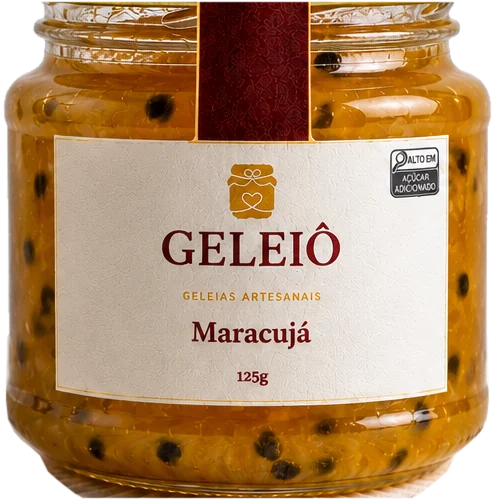
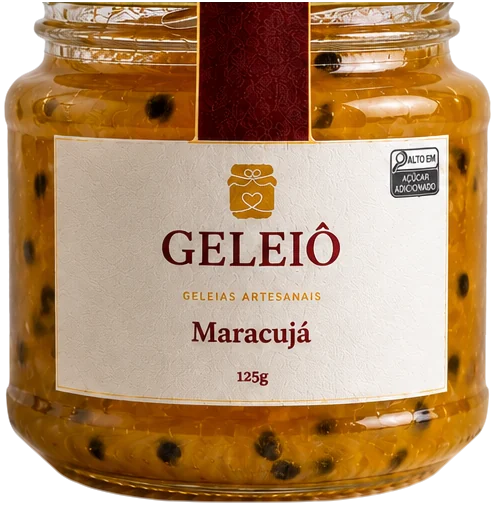
Login: base do pote recortada de novo e correções nas reações do pote
Base do pote (scripts/recortar-pote-login.mjs, public/login/pote.webp):
- O recorte terminava num corte reto em y=778 e chanfrava os cantos,
  mostrando o suporte listrado da foto. Agora o contorno inteiro é um
  polígono suave: laterais com borda subpixel até y 615, base medida no
  lado iluminado e espelhada (envoltória convexa + Catmull-Rom), pé de
  vidro até y 782,5, alfa pela distância à borda (1,5 px nas laterais,
  2,6 px no fundo) e cor da borda puxada de dentro (sem franja cinza).
- Caixa do pote 494x505; BASE_POTE.y 783 (a sombra acompanha).

Reações do pote (AnimatedJamJar), achados da revisão de bugs:
- Chacoalhar, negar e comemorar não entram mais no conjunto pausável
  (no framer-motion 13, pause() numa animação interrompida congelava os
  anéis da ondulação para sempre); a anterior recebe complete().
- Pose de repouso aplicada ao (re)montar e ao trocar "reduzir
  movimento": o pote não reabre mais inclinado/achatado nem com a tampa
  deslocada; animações WAAPI zumbis são canceladas.
- Toque no pote por onClick: rolar a página no celular começando no
  pote (ou o botão direito do mouse) não o chacoalha mais.
- Paralaxe volta a zero quando a rota é escondida.
- O botão "Pausar animação" ficava por baixo da frase da assinatura e
  não recebia o clique do mouse no desktop (WCAG 2.2.2).

diff --git a/src/components/AnimatedJamJar.tsx b/src/components/AnimatedJamJar.tsx
@@ -2,6 +2,7 @@
 
 import Image from "next/image";
 import {
+  frame,
   useAnimate,
   useInView,
   useMotionValue,
@@ -63,10 +64,13 @@ const paralaxe = (profundidade: number) =>
 
 // Boca do pote (elipse da superfície da geleia) e pontos da coreografia, medidos na foto.
 const BOCA = { cx: 383, cy: 258, rx: 198, ry: 21 };
-/** Centro do fundo do pote: origem do balanço do corpo (achata e estica a partir da mesa). */
-const BASE_POTE = { x: 383, y: 786 };
+/**
+ * Centro do fundo do pote, onde o pé de vidro encosta na mesa (y 782,5 no recorte, com a borda
+ * macia até 783): origem do balanço do corpo (achata e estica a partir da mesa) e centro da sombra.
+ */
+const BASE_POTE = { x: 383, y: 783 };
 /** Área do pote que responde ao clique/toque: do topo da tampa fechada até o fundo. */
-const AREA_TOQUE = { x: 136, y: 188, largura: 494, altura: 598 };
+const AREA_TOQUE = { x: 136, y: 188, largura: 494, altura: BASE_POTE.y - 188 };
 /** Camadas do corpo do pote: balançam a partir do fundo e ficam no plano do meio do paralaxe. */
 const ESTILO_CORPO = { transformOrigin: origem(BASE_POTE.x, BASE_POTE.y), translate: paralaxe(2) };
 const CENTRO_TAMPA = { x: 383, y: 240 };
@@ -127,6 +131,19 @@ const QUADRO_PARADO: AnimationSequence = [
   ["[data-colher]", { ...COLHER_ERGUIDA, opacity: 1 }, { duration: 0, at: 0 }],
   ["[data-porcao]", { opacity: 1 }, { duration: 0, at: 0 }],
   ["[data-gota]", { opacity: 1, scale: 1, y: uy(0) }, { duration: 0, at: 0 }],
+];
+
+/**
+ * Pose de repouso, aplicada na hora no começo da cena: tampa fechada, colher fora, sem gota nem
+ * porção, corpo e sombra no lugar. Uma animação parada no meio (stop) congela o valor onde estava,
+ * e ABRIR e QUADRO_PARADO não repõem tudo (o 1º trecho do ABRIR nem tem `x` da tampa).
+ */
+const POSE_REPOUSO: AnimationSequence = [
+  ["[data-tampa]", { x: ux(0), y: uy(0), rotate: 0 }, { duration: 0 }],
+  ["[data-colher]", { ...COLHER_FORA, opacity: 0 }, { duration: 0, at: 0 }],
+  ["[data-porcao], [data-gota], [data-onda], [data-onda-toque]", { opacity: 0 }, { duration: 0, at: 0 }],
+  ["[data-corpo], [data-acompanha]", { y: uy(0), rotate: 0, scaleX: 1, scaleY: 1 }, { duration: 0, at: 0 }],
+  ["[data-sombra]", { scaleX: 1, opacity: 1 }, { duration: 0, at: 0 }],
 ];
 
 /*
@@ -202,8 +219,9 @@ export function AnimatedJamJar() {
   const visivelRef = useRef(false);
   const fimUltima = useRef(0);
   const imagens = useRef<(HTMLImageElement | null)[]>([]);
+  const reacao = useRef<AnimationPlaybackControls | null>(null);
 
-  /** Roda uma sequência registrando os controles (para pausar/cancelar). */
+  /** Roda uma sequência da coreografia registrando os controles (para pausar/cancelar). */
   const rodar = useCallback(
     async (sequencia: AnimationSequence, opcoes?: { repeat?: number; repeatDelay?: number }, laco = false) => {
       const controles = animar(sequencia, opcoes);
@@ -215,6 +233,25 @@ export function AnimatedJamJar() {
       } finally {
         conjunto.delete(controles);
       }
+    },
+    [animar],
+  );
+
+  /**
+   * Reação a um toque ou ao formulário (chacoalhar, negar, comemorar). Dura menos de 1 s e quem
+   * dispara é a pessoa, então fica FORA dos conjuntos pausáveis: no framer-motion 13 uma animação
+   * interrompida (stop, ou outra no mesmo valor) nunca resolve a promise, e um pause() depois disso
+   * reaplica o 1º quadro da Web Animation cancelada (os anéis da ondulação ficavam congelados).
+   * Uma reação nova termina a anterior na hora (complete leva ao fim, que é a pose de repouso).
+   */
+  const reagir = useCallback(
+    (sequencia: AnimationSequence) => {
+      reacao.current?.complete();
+      const controles = animar(sequencia);
+      reacao.current = controles;
+      void controles.then(() => {
+        if (reacao.current === controles) reacao.current = null;
+      });
     },
     [animar],
   );
@@ -273,12 +310,18 @@ export function AnimatedJamJar() {
     await abrir();
   }, [abrir, pararLacos, rodar]);
 
-  // Começo: espera as fotos decodificarem (sem animar camadas ainda invisíveis) e abre o pote.
-  // Com "reduzir movimento", vai direto para o quadro parado.
+  // Começo (e volta à rota, que reexecuta os efeitos): repõe a pose de repouso, espera as fotos
+  // decodificarem (sem animar camadas ainda invisíveis) e abre o pote. Com "reduzir movimento",
+  // vai direto para o quadro parado.
   useEffect(() => {
     if (reduzir === null) return; // ainda não sabemos (primeira renderização)
     const minha = ++geracao.current;
     let cancelado = false;
+
+    // Web Animations "zumbis" (paradas no meio, que um pause() reacenderia) saem de cena.
+    escopo.current?.getAnimations({ subtree: true }).forEach((a) => a.cancel());
+    reacao.current = null;
+    animar(POSE_REPOUSO);
 
     if (reduzir) {
       pararLacos();
@@ -286,7 +329,10 @@ export function AnimatedJamJar() {
       estado.current = "aberto";
     } else {
       const fotos = imagens.current.filter((img): img is HTMLImageElement => Boolean(img));
-      void Promise.all(fotos.map((img) => img.decode().catch(() => undefined))).then(() => {
+      // A pose com duração 0 só é escrita no próximo quadro do framer-motion: o ABRIR espera esse
+      // quadro, senão leria o x da tampa ainda fora do lugar.
+      const poseAplicada = new Promise<void>((pronto) => frame.postRender(() => pronto()));
+      void Promise.all([poseAplicada, ...fotos.map((img) => img.decode().catch(() => undefined))]).then(() => {
         if (!cancelado && minha === geracao.current && estado.current === "fechado") void abrir();
       });
     }
@@ -295,7 +341,7 @@ export function AnimatedJamJar() {
       cancelado = true;
       pararTudo();
     };
-  }, [reduzir, abrir, animar, pararLacos, pararTudo]);
+  }, [reduzir, abrir, animar, pararLacos, pararTudo, escopo]);
 
   // Formulário no mesmo <main>: o foco num campo repete a cena (no máximo a cada 8 s) e o
   // resultado do envio faz o pote reagir (balança "não" no erro, pula no acerto).
@@ -314,7 +360,7 @@ export function AnimatedJamJar() {
     const aoResultado = (e: Event) => {
       if (!podeReagir()) return;
       const resultado = (e as CustomEvent<ResultadoLogin>).detail;
-      void rodar((resultado === "erro" ? negar : comemorar)(alvoDoBalanco(estado.current)));
+      reagir((resultado === "erro" ? negar : comemorar)(alvoDoBalanco(estado.current)));
     };
     pagina.addEventListener("focusin", aoFocar);
     pagina.addEventListener(EVENTO_RESULTADO_LOGIN, aoResultado);
@@ -322,13 +368,15 @@ export function AnimatedJamJar() {
       pagina.removeEventListener("focusin", aoFocar);
       pagina.removeEventListener(EVENTO_RESULTADO_LOGIN, aoResultado);
     };
-  }, [reduzir, repetir, rodar, escopo]);
+  }, [reduzir, repetir, reagir, escopo]);
 
   // Paralaxe pelo mouse sobre o card inteiro (no toque não há "passar por cima": fica parado).
   useEffect(() => {
     if (reduzir !== false) return;
     const cartao = raiz.current?.parentElement;
-    if (!cartao) return;
+    // A cena é guardada aqui: quando a rota é escondida, o React solta o ref antes da limpeza.
+    const cena = escopo.current;
+    if (!cartao || !cena) return;
     const limitar = (v: number) => Math.max(-1, Math.min(1, v));
     const aoMover = (e: PointerEvent) => {
       if (e.pointerType !== "mouse" || pausadoPelaPessoa.current) return;
@@ -345,17 +393,27 @@ export function AnimatedJamJar() {
     return () => {
       cartao.removeEventListener("pointermove", aoMover);
       cartao.removeEventListener("pointerleave", aoSair);
+      // Volta ao centro na hora (sem a mola, que escreveria num ref já solto).
       aoSair();
+      molaX.jump(0);
+      molaY.jump(0);
+      cena.style.setProperty("--px", "0");
+      cena.style.setProperty("--py", "0");
     };
-  }, [reduzir, alvoX, alvoY]);
+  }, [reduzir, alvoX, alvoY, molaX, molaY, escopo]);
 
-  /** Clique/toque no pote: chacoalha como gelatina. */
+  /**
+   * Clique/toque no pote: chacoalha como gelatina. É `click`, não `pointerdown`: no celular o
+   * pointerdown dispara antes de o navegador decidir que o gesto é rolagem (e no mouse viria até
+   * do botão direito e do meio).
+   */
   function cutucar() {
     if (reduzir !== false || pausadoPelaPessoa.current) return;
-    void rodar(chacoalhar(alvoDoBalanco(estado.current)));
+    reagir(chacoalhar(alvoDoBalanco(estado.current)));
   }
 
-  // Fora da tela (rota escondida com display:none, aba de outra página): pausa tudo.
+  // Fora da tela (rota escondida com display:none, aba de outra página): pausa a coreografia e os
+  // laços. As reações (menos de 1 s) não entram aqui: terminam sozinhas, na pose de repouso.
   useEffect(() => {
     visivelRef.current = visivel;
     const todos = [...ativos.current, ...lacos.current];
@@ -523,7 +581,7 @@ export function AnimatedJamJar() {
               src="/login/pote.webp"
               alt=""
               width={494}
-              height={500}
+              height={505}
               loading="eager"
               draggable={false}
               sizes="(min-width: 1024px) 340px, 60vw"
@@ -572,15 +630,17 @@ export function AnimatedJamJar() {
           <div
             className="cursor-colher pointer-events-auto absolute touch-manipulation"
             style={{ ...caixa(AREA_TOQUE.x, AREA_TOQUE.y, AREA_TOQUE.largura), height: `${(AREA_TOQUE.altura / VH) * 100}%` }}
-            onPointerDown={cutucar}
+            onClick={cutucar}
           />
         </div>
       </div>
 
-      {/* Pausa (WCAG 2.2.2): fora da área aria-hidden; some quando o sistema pede menos movimento. */}
+      {/* Pausa (WCAG 2.2.2): fora da área aria-hidden; some quando o sistema pede menos movimento.
+          z-10: no desktop a assinatura do card (largura toda, logo depois na página) cobria o botão
+          e o clique do mouse caía nela. */}
       <label
         title="Pausar animação"
-        className="absolute bottom-3 left-3 inline-flex size-11 cursor-pointer items-center justify-center rounded-full border border-accent2/70 bg-white/85 text-primaria shadow-sm transition-colors hover:bg-white has-focus-visible:outline-2 has-focus-visible:outline-offset-2 has-focus-visible:outline-secundaria motion-reduce:hidden"
+        className="absolute bottom-3 left-3 z-10 inline-flex size-11 cursor-pointer items-center justify-center rounded-full border border-accent2/70 bg-white/85 text-primaria shadow-sm transition-colors hover:bg-white has-focus-visible:outline-2 has-focus-visible:outline-offset-2 has-focus-visible:outline-secundaria motion-reduce:hidden"
       >
         <input
           type="checkbox"

diff --git a/src/app/(acesso)/login/page.tsx b/src/app/(acesso)/login/page.tsx
@@ -61,7 +61,8 @@ export default function PaginaLogin({ searchParams }: PageProps<"/login">) {
 
         <div className="relative h-64 overflow-hidden rounded-[1.5rem] border border-accent2/50 bg-destaque [grid-area:cena] sm:h-80 lg:h-auto">
           <AnimatedJamJar />
-          <p className="assinatura absolute inset-x-0 bottom-4 hidden text-center text-3xl text-primaria lg:block">{marca.fraseRodape}</p>
+          {/* pointer-events-none: a frase ocupa a largura toda e ficava por cima do botão de pausa. */}
+          <p className="assinatura pointer-events-none absolute inset-x-0 bottom-4 hidden text-center text-3xl text-primaria lg:block">{marca.fraseRodape}</p>
         </div>
       </div>
     </main>
